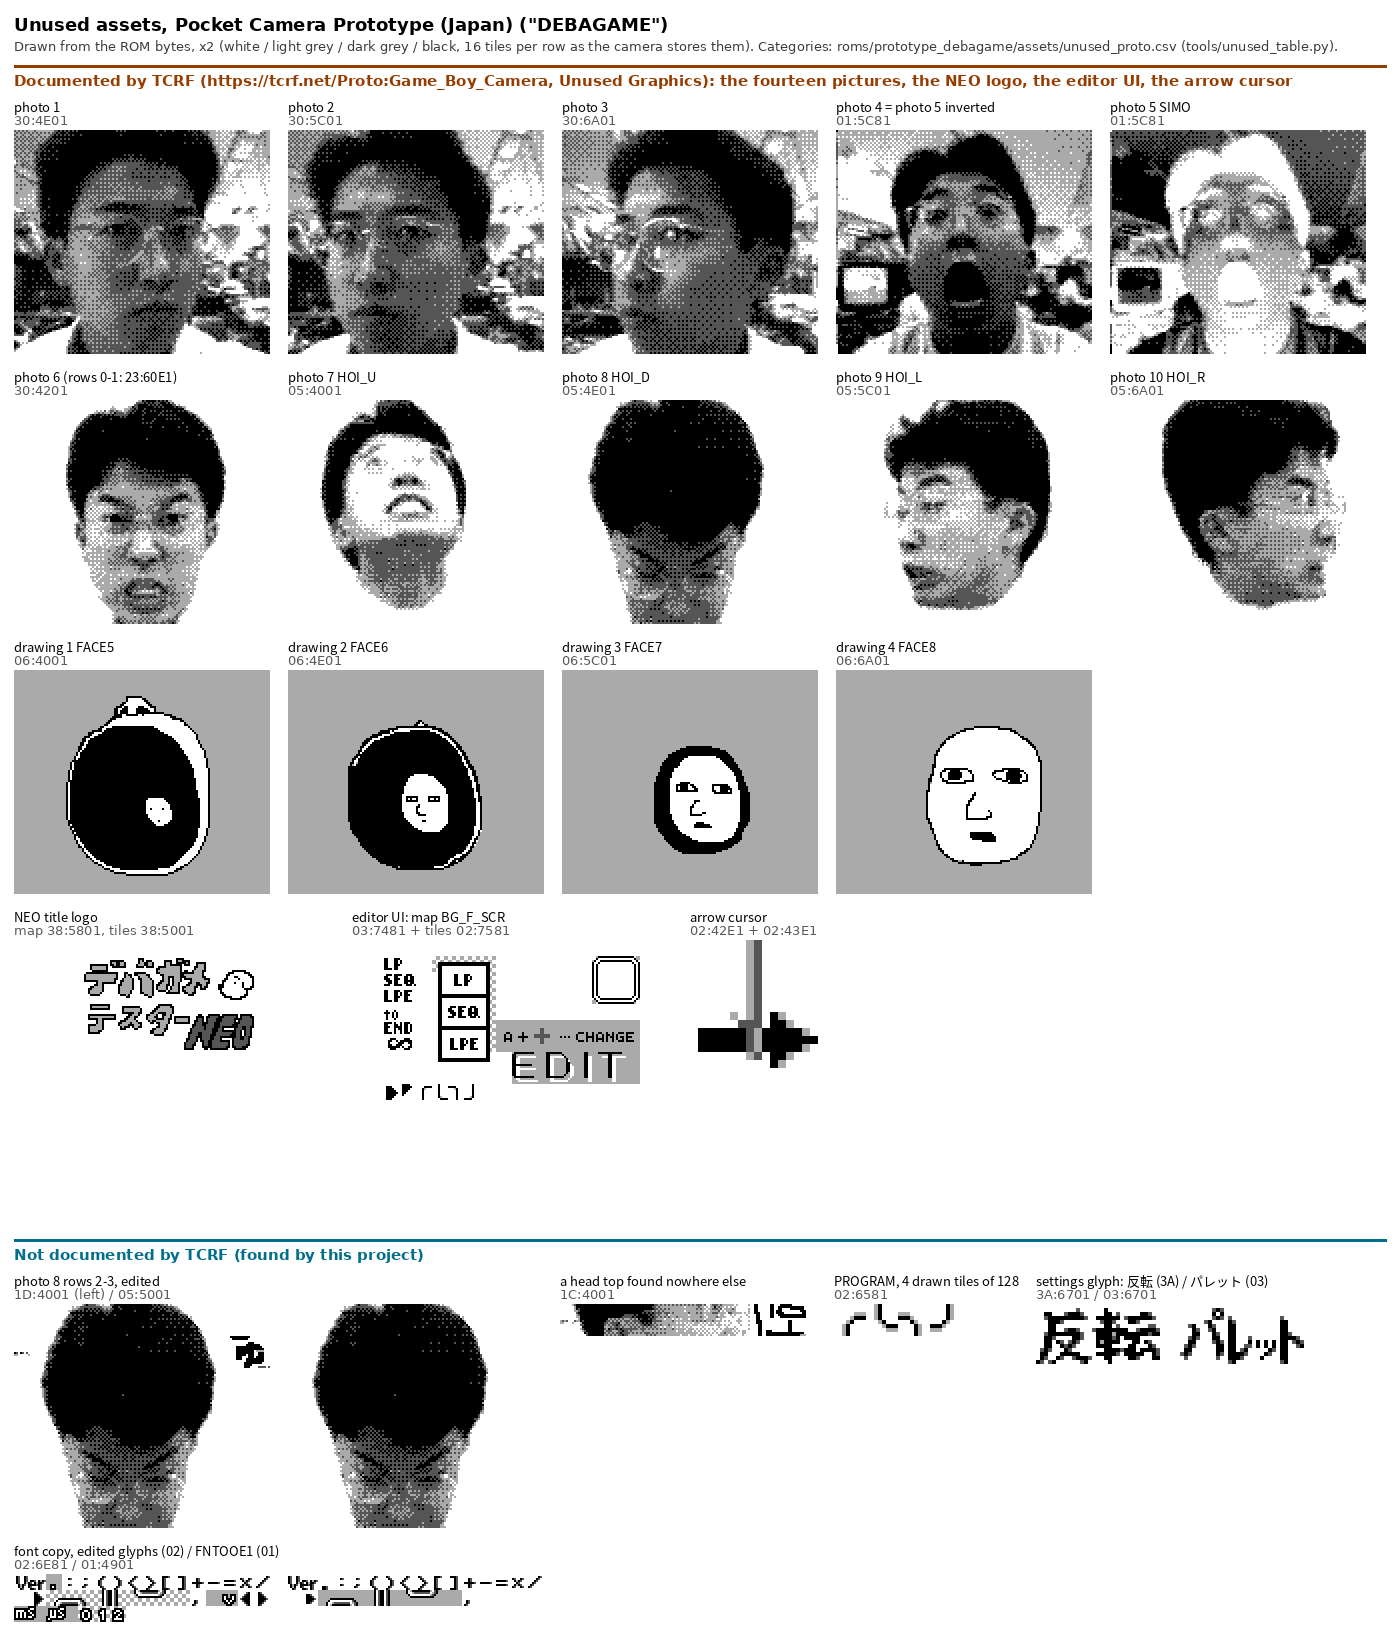
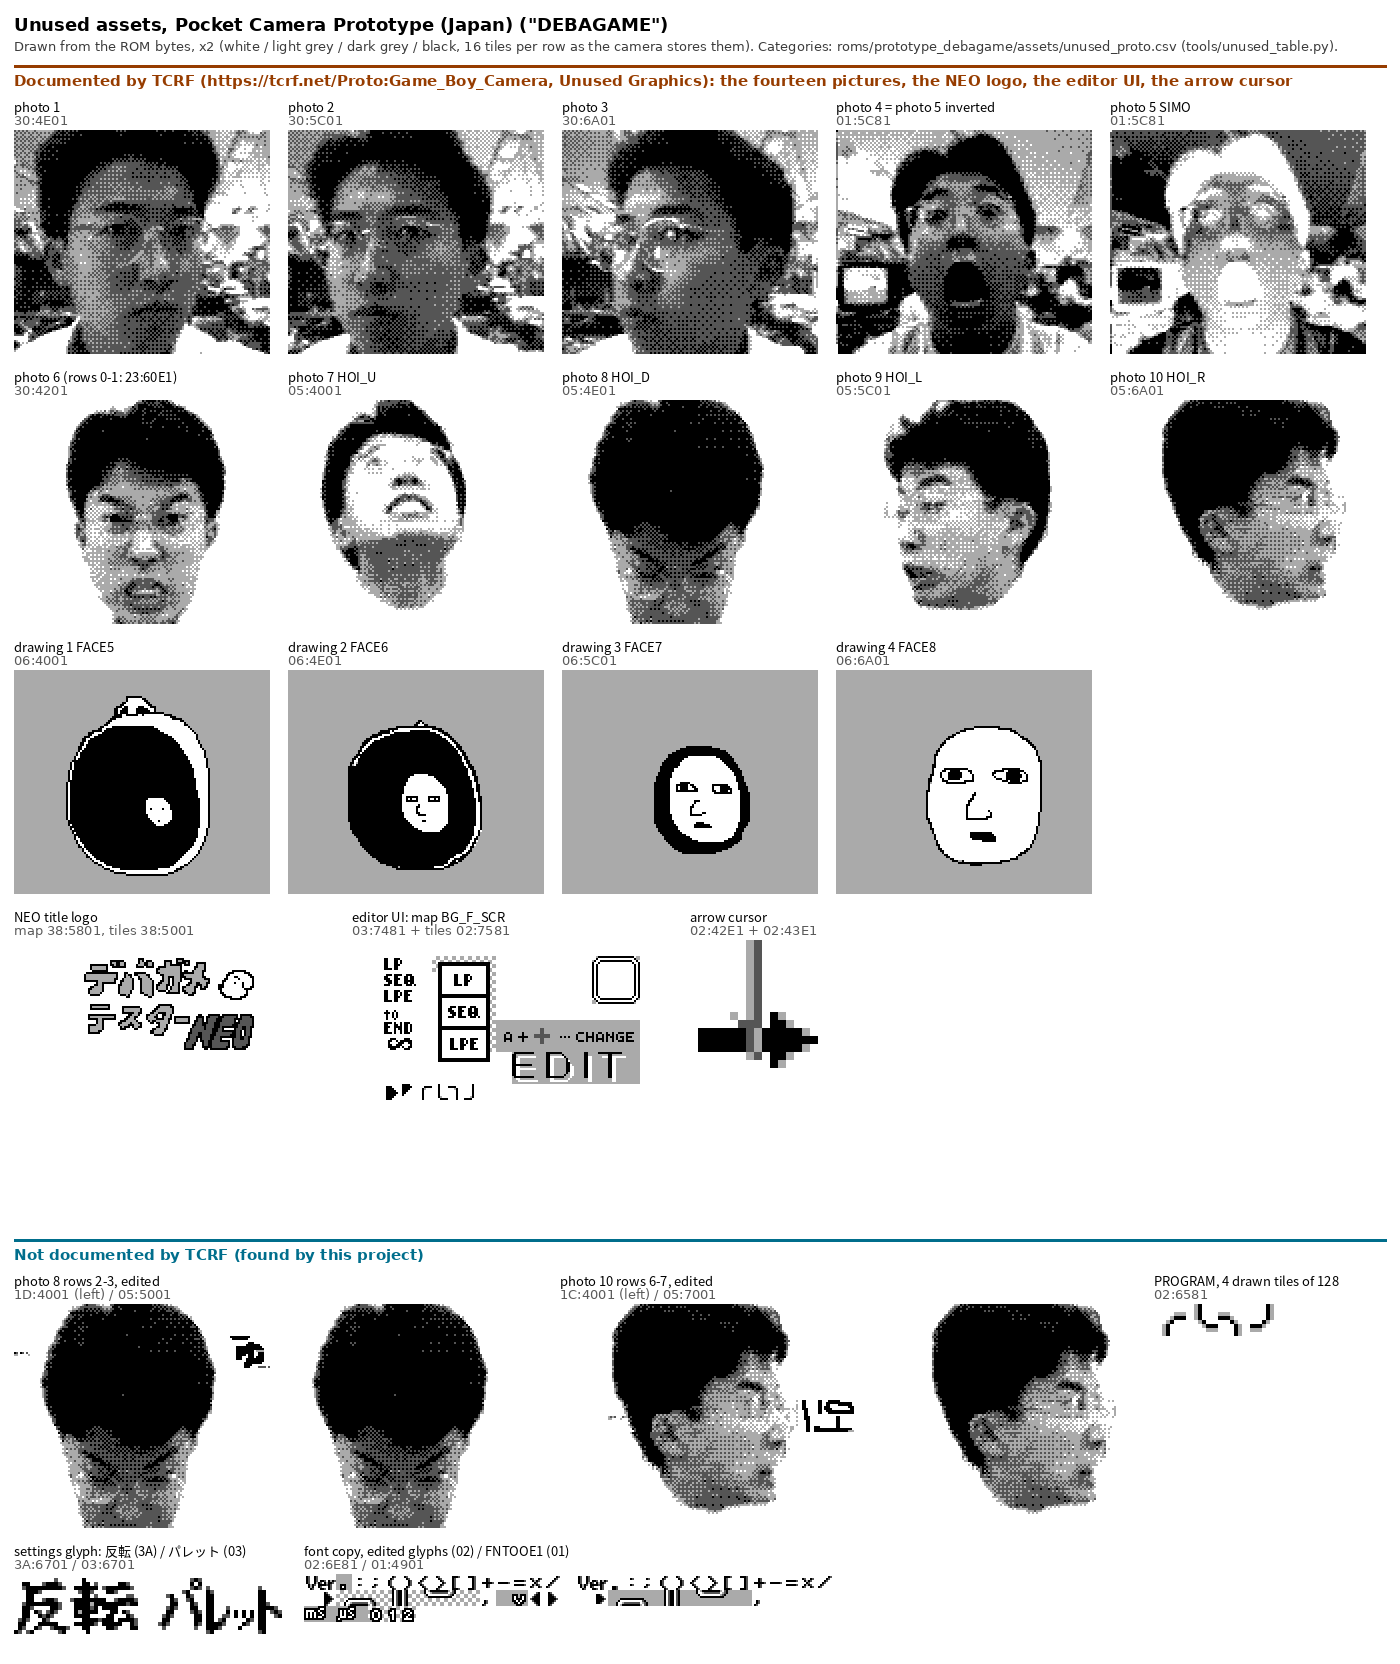
Prototype: bank $1C is an edited strip of face photo 10 (rows 6-7, set 3 tiles left, retouched, a hand-drawn mark): Leftover_1C_4001_Unused_TCRF_FacePhoto10_HOI_R_Gfx_VariantPart7001, rebuilt next to the original; README: the real-credits paragraph and picture removed
Claude-Session: https://claude.ai/code/session_011bkRcGXfJ3fZfBVgH9Dsk3

diff --git a/tools/proto_unused_sheet.py b/tools/proto_unused_sheet.py
@@ -9,7 +9,7 @@ Two parts, as the categories of assets/unused_proto.csv (tools/unused_table.py):
     palette inverted, as TCRF shows it; photo 6 with its two top rows from bank $23), the NEO title logo (its map drawn with its
     tiles), the editor UI (the map BG_F_SCR drawn with the editor tiles at ids $80-$FF and the settings font CONF2 below), the
     arrow cursor;
-  not documented by TCRF: the edited rows of photo 8 (bank $1D), the head top of bank $1C, the PROGRAM tiles, the settings-font
+  not documented by TCRF: the edited rows of photo 8 (bank $1D) and of photo 10 (bank $1C), the PROGRAM tiles, the settings-font
     glyph of bank $3A (反転 where bank $03 has パレット), the edited glyphs of the font copies (02:6EA1, 02:6F93 against FNTOOE1).
 Every picture is drawn from the ROM bytes (white / light grey / dark grey / black), x2, with its address, size and label.
 """
@@ -30,6 +30,12 @@ def tmap(mp, cols, rows, src, show=(20, 18)):
     return im
 from PIL import Image
 PHOTO = 3584
+P10 = g(0x05, 0x6A01, PHOTO); s1c = g(0x1C, 0x4001, 512); p10 = bytearray(19 * 14 * 16)   # photo 10 on a canvas 3 tiles wider
+for r in range(14):
+    for c in range(16): o = (r * 19 + c) * 16; p10[o:o + 16] = P10[(r * 16 + c) * 16:(r * 16 + c + 1) * 16]
+for r in range(2):                    # the $1C strip sits 3 tiles left of its place: its tile c is column c + 3 (its last 3, the mark, right of the photo)
+    for c in range(16): o = ((6 + r) * 19 + c + 3) * 16; p10[o:o + 16] = s1c[(r * 16 + c) * 16:(r * 16 + c + 1) * 16]
+p10v = bytes(p10)
 p6 = g(0x23, 0x60E1, 512) + g(0x30, 0x4201, 3072); p8 = g(0x05, 0x4E01, PHOTO)
 pics = [('photo 1', '30:4E01', tiles(g(0x30, 0x4E01, PHOTO))), ('photo 2', '30:5C01', tiles(g(0x30, 0x5C01, PHOTO))), ('photo 3', '30:6A01', tiles(g(0x30, 0x6A01, PHOTO))),
         ('photo 4 = photo 5 inverted', '01:5C81', tiles(g(0x01, 0x5C81, PHOTO), inv=True)), ('photo 5 SIMO', '01:5C81', tiles(g(0x01, 0x5C81, PHOTO))),
@@ -43,7 +49,7 @@ cur = tiles(g(0x02, 0x42E1, 32) + g(0x02, 0x43E1, 32), w=2)
 tcrf = [('NEO title logo', 'map 38:5801, tiles 38:5001', neo), ('editor UI: map BG_F_SCR', '03:7481 + tiles 02:7581', edit), ('arrow cursor', '02:42E1 + 02:43E1', cur.resize((64, 64), Image.NEAREST))]
 glyph = lambda b: tiles(g(b, 0x6701, 64) + g(b, 0x6801, 64), w=4)
 own = [('photo 8 rows 2-3, edited', '1D:4001 (left) / 05:5001', side(tiles(p8[:512] + g(0x1D, 0x4001, 512) + p8[1024:]), tiles(p8))),
-       ('a head top found nowhere else', '1C:4001', tiles(g(0x1C, 0x4001, 512))),
+       ('photo 10 rows 6-7, edited', '1C:4001 (left) / 05:7001', side(tiles(p10v, w=19), tiles(P10))),
        ('PROGRAM, 4 drawn tiles of 128', '02:6581', tiles(g(0x02, 0x6581, 64), w=4).resize((64, 16), Image.NEAREST)),
        ('settings glyph: 反転 (3A) / パレット (03)', '3A:6701 / 03:6701', side(glyph(0x3A).resize((64, 32), Image.NEAREST), glyph(0x03).resize((64, 32), Image.NEAREST))),
        ('font copy, edited glyphs (02) / FNTOOE1 (01)', '02:6E81 / 01:4901', side(tiles(g(0x02, 0x6E81, 0x280)), tiles(g(0x01, 0x4901, 0x280))))]

diff --git a/tools/proto_reconstruct.py b/tools/proto_reconstruct.py
@@ -8,7 +8,10 @@
                             rows 2-3 equal to 30:4201-43FF byte for byte, which ties them to this picture.
   FacePhoto8_variant_1D.png face photo 8 (05:4E01) with its tile rows 2-3 replaced by the edited version of bank $1D
                             (Leftover_1D_4001_Unused_TCRF_FacePhoto8_HOI_D_Gfx_VariantPart5001), next to the original.
-  HeadTop_1C.png            the two tile rows of bank $1C (Leftover_1C_4001_Tiles): the top of a head that no picture of the ROM holds.
+  FacePhoto10_variant_1C.png face photo 10 (05:6A01) with its tile rows 6-7 replaced by the edited strip of bank $1C
+                            (Leftover_1C_4001_Unused_TCRF_FacePhoto10_HOI_R_Gfx_VariantPart7001), next to the original: the strip
+                            sits 3 tiles to the left of its place (its tile c is column c + 3 of the photo); its last 3 columns
+                            (a hand-drawn mark) stand right of the picture, on a canvas 3 tiles wider.
 Every picture is drawn 2x, white / light grey / dark grey / black, as the camera tiles are stored (16 tiles per row).
 """
 import argparse, io, os, sys
@@ -28,10 +31,17 @@ def side(*ims):
     W = sum(i.width for i in ims) + 8 * (len(ims) - 1); H = max(i.height for i in ims); c = Image.new('L', (W, H), 255); x = 0
     for i in ims: c.paste(i, (x, 0)); x += i.width + 8
     return c
-p8 = g(0x05, 0x4E01, 3584)
+p8 = g(0x05, 0x4E01, 3584); p10 = g(0x05, 0x6A01, 3584); s1c = g(0x1C, 0x4001, 512)
+def p10v():                     # photo 10 on a 19-tile-wide canvas; rows 6-7, column c + 3 <- tile c of the $1C strip (c = 0..15:
+    b = bytearray(19 * 14 * 16)  # its last 3 tiles, the hand-drawn mark, land in columns 16-18, right of the picture)
+    for r in range(14):
+        for c in range(16): o = (r * 19 + c) * 16; b[o:o + 16] = p10[(r * 16 + c) * 16:(r * 16 + c + 1) * 16]
+    for r in range(2):
+        for c in range(16): o = ((6 + r) * 19 + c + 3) * 16; b[o:o + 16] = s1c[(r * 16 + c) * 16:(r * 16 + c + 1) * 16]
+    return bytes(b)
 pics = {'FacePhoto6_whole.png': img(g(0x23, 0x60E1, 512) + g(0x30, 0x4201, 3072)),
         'FacePhoto8_variant_1D.png': side(img(p8[:512] + g(0x1D, 0x4001, 512) + p8[1024:]), img(p8)),
-        'HeadTop_1C.png': img(g(0x1C, 0x4001, 512))}
+        'FacePhoto10_variant_1C.png': side(img(p10v(), w=19), img(p10))}
 bad = 0
 for nm, im in pics.items():
     buf = io.BytesIO(); im.resize((im.width * 2, im.height * 2), Image.NEAREST).save(buf, 'PNG'); p = os.path.join(OUT, nm)

diff --git a/roms/prototype_debagame/README.md b/roms/prototype_debagame/README.md
@@ -72,7 +72,7 @@ Owner rule (2026-11-11): bytes that nothing in this build reads, runs or explain
 | variant of an identified block | `Leftover_BB_AAAA_<block name>_Variant[PartAAAA]` | 28 | 7,158 | the kind of the block; code: *code copies* | 128+ bytes equal to one identified block at one shift for 60 % or more, or (step 4b-3, 2026-11-12) the run between two pieces of one copy at the same shift, where the copy was edited (the `反転` glyph of the settings font in bank `$3A` where bank `$03` has `パレット`, the `Ver.` and µs / ms glyphs of the font copies in banks `$02`, `$22`, `$2E`, `$39`): older versions of identified blocks (the others found before 2026-11-12 are now named from the old tables, below) |
 | PC memory | `Leftover_BB_AAAA_PcRam` | 14 | 138,377 (94,505 drawn: the rest is `$00` padding or copies found inside them) | *PC memory* | a leftover run holding strings of the development PC's RAM, x86 code (2 or more `55 8B EC` function prologues, `push bp / mov bp,sp`: `$EC` is no Game Boy opcode; banks `$08`-`$0B`, `$25`, `$26`, `$2C`) or the linker's symbol list as held in memory (bank `$11`, next section; 2026-11-12): the DOS environment of a Windows 95 machine (`COMSPEC=C:\WINDOWS\COMMAND.COM`, `PATH=...;C:\DEBAGAME\TOOL;C:\DEBAGAME\ISD;...`, `TZ=JST-9`, `ORCADEXE=...`), `C:\Program Files\TAC95\TAC32.EXE`, `KERNEL32.DLL`, `PIFMGR.DLL`, `WINDOWS VMM 4.0`, the MS-IME keys. Only the strings are proven; the rest of the run is taken as the same memory |
 | bank-0 code and data of the older builds | `Leftover_BB_AAAA_<developers' name>` | 708 | 46,855 | *code copies* (data: tables) | the bank-0 labels of symbol tables `$2A` / `$35` in banks `$2C` / `$37` (C), the same routines found by their bytes in banks `$1D` / `$20` (I); the printer library is part of it (sections below) |
-| tiles of no known block | `Leftover_BB_AAAA_Tiles` | 1 | 512 | *tile sets* | 2bpp tiles that no picture of the ROM holds (owner 2026-11-12: the head top of bank `$1C`) |
+| tiles of no known block | `Leftover_BB_AAAA_Tiles` | 0 | 0 | *tile sets* | 2bpp tiles that no picture of the ROM holds (none left: the bank `$1C` strip first put here is an edited part of photo 10, a variant) |
 | not identified | `Leftover_BB_AAAA` | 250 | 82,007 | *UNCERTAIN* | none of the above |
 
 The copies are mostly the older builds' banks: their bank-0 code again in banks `$1D`, `$20`, `$2C` and `$37` (`Leftover_20_4253_INKEY` ...), this build's menu maps in banks `$21`-`$23`, `$2D`-`$2F`, `$39`, `$3A`, and the TCRF pictures (next section).
@@ -119,7 +119,7 @@ Every unused block of this ROM is in [`assets/unused_proto.csv`](assets/unused_p
 
 * **Face photo 6, whole.** Its tile rows 0-1, the top of the head, are not lost: bank `$23` holds them at `23:60E1-62E0` (`Leftover_23_60E1_Unused_TCRF_FacePhoto6_Rows0To1_Gfx`), followed by rows 2-3 equal to `30:4201-43FF` byte for byte, which ties them to the picture whose rows 2-13 are `Unused_TCRF_FacePhoto6_Rows2To13_Gfx`. They were 260 of the uncertain bytes of bank `$23`. ![Face photo 6](assets/reconstructed/FacePhoto6_whole.png)
 * **Bank `$1D`: an edited face photo 8.** `1D:4001-4200` are tile rows 2-3 of face photo 8 (`05:5001-5200`, the hair) with 75 % of the non-blank bytes equal and marks drawn over the rest (`Leftover_1D_4001_Unused_TCRF_FacePhoto8_HOI_D_Gfx_VariantPart5001`): an altered version, unused, not documented by TCRF. Left: photo 8 with these rows, right: the original. ![Photo 8 and the bank $1D rows](assets/reconstructed/FacePhoto8_variant_1D.png)
-* **Bank `$1C`: the top of a head that is nowhere else.** `1C:4001-4200` are two tile rows of a head, hair against a textured background (`Leftover_1C_4001_Tiles`); compared with the 14 pictures of the ROM at every row and shift, plain and with the palette inverted, none matches: the rest of that picture is not in the ROM. Unused, not documented by TCRF. ![Bank $1C head top](assets/reconstructed/HeadTop_1C.png)
+* **Bank `$1C`: an edited face photo 10** (owner 2026-11-12). `1C:4001-4200` are tile rows 6-7 of face photo 10 (`05:7001-7200`, the eye and the glasses) placed 3 tiles to the left (tile `c` of the strip is column `c + 3` of the photo): 82 % of the pixels equal there, every tile retouched, and a hand-drawn mark in its last 3 columns (`Leftover_1C_4001_Unused_TCRF_FacePhoto10_HOI_R_Gfx_VariantPart7001`). An altered version, unused, not documented by TCRF. Left: photo 10 with these rows, right: the original. ![Photo 10 and the bank $1C rows](assets/reconstructed/FacePhoto10_variant_1C.png)
 * **`PROGRAM` (`02:6581`, copies `2E:6581`, `39:6581`, a part at `22:4CC3`).** The older builds' tables name it; it is 128 tiles, 4 drawn (an outline) and 124 blank: `Unused_PROGRAM_Gfx`, unused tiles not documented by TCRF.
 
 ## Unused assets: the TCRF pictures (2026-11-11)

diff --git a/README.md b/README.md
@@ -66,10 +66,6 @@ The reference build: L0-L5 done, L6 partial ([`roms/jp_rev_a/`](roms/jp_rev_a/RE
 
 ![The factory calibration and the fast calibration sanity check, with the button combinations that open them](tcrf_check/assets/secret/secret_calibration_screens.png)
 
-*The real credits* are unlocked by a RUN! RUN! RUN! record of 22:00 or lower, then USER > CREDITS (the code reads the stored record `[$DAA7:$DAA6] >= $7799`; docs §15.2, §16.4). Below, the intro pages in the Japanese and international ROMs (BGB): the international build drops the "One Love" page and plays two scenes of Nintendo's arcade game Sheriff instead (docs §1.5).
-
-![The intro pages of the real credits in the Japanese and international ROMs](tcrf_check/assets/credits_intl/credits_intro_jp_vs_intl.png)
-
 *Inputs and codes* (each checked in the code, in the project's core and in BGB; docs §15, §16.18; the lines of the [GameFAQs cheats page](https://gamefaqs.gamespot.com/gameboy/564359-game-boy-camera/cheats) and of [TCRF](https://tcrf.net/Game_Boy_Camera) are credited where they come from):
 
 | What | How | Source, check |
@@ -203,9 +199,13 @@ A hardware tester, デバガメテスター ("Debagame Tester") SECOND IMPACT Ve
 
 ![Face photo 6, rebuilt](roms/prototype_debagame/assets/reconstructed/FacePhoto6_whole.png)
 
-*An edited photo 8 in bank `$1D`*: tile rows 2-3 of the hair, 75 % of the bytes equal, marks drawn over the rest (left; the original at the right). Bank `$1C` holds the top of yet another head that no picture of the ROM contains.
+*An edited photo 8 in bank `$1D`*: tile rows 2-3 of the hair, 75 % of the bytes equal, marks drawn over the rest (left; the original at the right).
 
 ![Photo 8 with the bank $1D rows, and the original](roms/prototype_debagame/assets/reconstructed/FacePhoto8_variant_1D.png)
+
+*An edited photo 10 in bank `$1C`*: tile rows 6-7 (the eye and the glasses), set 3 tiles to the left, every tile retouched (82 % of the pixels equal), a hand-drawn mark at the end (left; the original at the right).
+
+![Photo 10 with the bank $1C rows, and the original](roms/prototype_debagame/assets/reconstructed/FacePhoto10_variant_1C.png)
 
 *The editor UI is a screen*: the picture TCRF shows is the unused tile map `BG_F_SCR` (`03:7481`) drawn with the editor tiles (`02:7581`, ids `$80-$FF`); and the settings font of bank `$3A` is an older one, with 反転 where bank `$03` has パレット (both in the sheet above).
 
